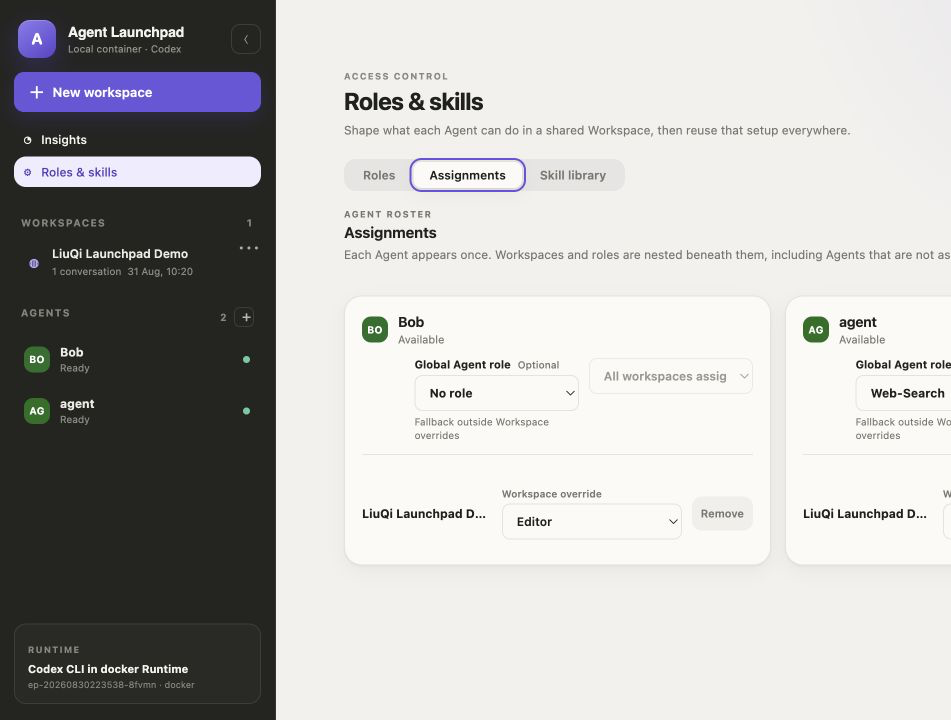
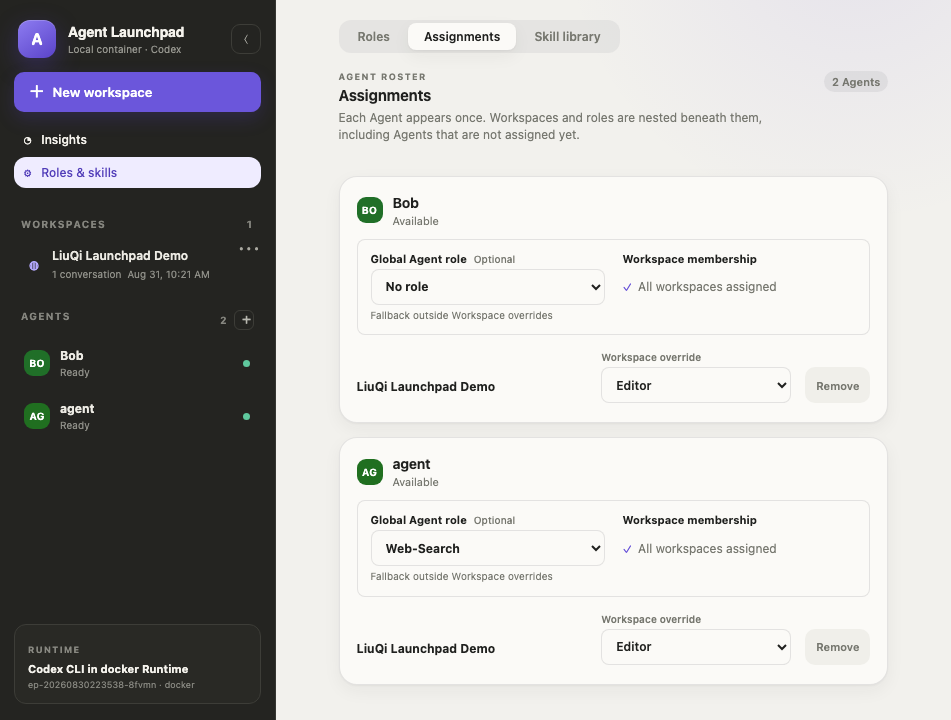
fix: fixed skills import

diff --git a/tests/server/tools/web-fetch-adapter.test.ts b/tests/server/tools/web-fetch-adapter.test.ts
@@ -1,8 +1,17 @@
+import { EventEmitter } from "node:events";
+import type { LookupFunction } from "node:net";
+import { PassThrough } from "node:stream";
 import { describe, expect, it, vi } from "vitest";
 import {
   WebFetchAdapter,
   type LookupAddress,
 } from "../../../apps/server/src/tools/web-fetch-adapter.js";
+
+const httpRequest = vi.hoisted(() => vi.fn());
+vi.mock("node:http", async (importOriginal) => ({
+  ...(await importOriginal<typeof import("node:http")>()),
+  request: httpRequest,
+}));
 
 const publicAddress: LookupAddress = { address: "93.184.216.34", family: 4 };
 
@@ -49,4 +58,49 @@ describe("WebFetchAdapter", () => {
     expect(fetchImpl).not.toHaveBeenCalled();
   });
 
+  /**
+   * The default transport pins Node's DNS lookup to the address the SSRF
+   * guard already approved. Node asks for every address at once whenever it
+   * uses the multi-address connect path (autoSelectFamily, on by default
+   * since Node 20), and answering that with the legacy positional form fails
+   * the connect with ERR_INVALID_IP_ADDRESS. Every other test in this file
+   * injects `fetchImpl`, so this is the only coverage of the real transport.
+   */
+  it("answers Node's pinned DNS lookup in the shape the request asked for", async () => {
+    let lookup: LookupFunction | undefined;
+    httpRequest.mockImplementation((options: { lookup?: LookupFunction }, onResponse: (response: unknown) => void) => {
+      lookup = options.lookup;
+      const request = new EventEmitter() as EventEmitter & { end: () => void; destroy: () => void };
+      request.destroy = () => undefined;
+      request.end = () => {
+        const response = new PassThrough() as PassThrough & {
+          statusCode: number;
+          statusMessage: string;
+          rawHeaders: string[];
+        };
+        response.statusCode = 200;
+        response.statusMessage = "OK";
+        response.rawHeaders = ["content-type", "text/markdown"];
+        onResponse(response);
+        response.end("# Imported skill");
+      };
+      return request;
+    });
+    const adapter = new WebFetchAdapter({ lookupImpl: async () => [publicAddress] });
+
+    await expect(adapter.fetch("http://example.com/SKILL.md")).resolves.toMatchObject({
+      status: 200,
+      contentType: "text/markdown",
+      content: "# Imported skill",
+    });
+
+    expect(lookup).toBeTypeOf("function");
+    const all = vi.fn();
+    lookup!("example.com", { all: true }, all);
+    expect(all).toHaveBeenCalledWith(null, [publicAddress]);
+
+    const positional = vi.fn();
+    lookup!("example.com", {}, positional);
+    expect(positional).toHaveBeenCalledWith(null, publicAddress.address, publicAddress.family);
+  });
 });

diff --git a/apps/server/src/tools/web-fetch-adapter.ts b/apps/server/src/tools/web-fetch-adapter.ts
@@ -363,8 +363,18 @@ function fetchWithPinnedAddress(
       path: url.pathname + url.search,
       method: String(init.method ?? "GET"),
       headers: headersForNodeRequest(init),
-      lookup: (_lookupHostname, _lookupOptions, callback) =>
-        callback(null, pinnedAddress.address, pinnedAddress.family),
+      // Node passes `all: true` whenever it uses the multi-address connect
+      // path (autoSelectFamily, on by default since Node 20) and then expects
+      // an address array. The positional form is only valid without it, and
+      // answering in the wrong shape fails the connect with
+      // ERR_INVALID_IP_ADDRESS rather than reaching the host.
+      lookup: (_lookupHostname, lookupOptions, callback) => {
+        if (lookupOptions.all === true) {
+          callback(null, [{ address: pinnedAddress.address, family: pinnedAddress.family }]);
+          return;
+        }
+        callback(null, pinnedAddress.address, pinnedAddress.family);
+      },
     };
     const onResponse = (response: import("node:http").IncomingMessage) => {
       const status = response.statusCode;

diff --git a/docs/ASSIGNMENTS_UI_REDESIGN_IMPLEMENTATION_PLAN.md b/docs/ASSIGNMENTS_UI_REDESIGN_IMPLEMENTATION_PLAN.md
@@ -1,0 +1,252 @@
+# Assignments UI Redesign Implementation Plan
+
+## Objective
+
+Improve **Roles & skills > Assignments** so Agent-to-Workspace access is easy
+to scan, does not clip at the current application viewport, and remains
+consistent with the existing warm-paper and purple visual system.
+
+This is a focused presentation change. It must not alter assignment behavior,
+API contracts, authorization semantics, or unrelated screens.
+
+## Confirmed Design Decisions
+
+1. Use a single-column Agent roster at every current viewport size.
+2. Keep Workspace assignments visible beneath each Agent.
+3. Emphasize the common task: review or change the Agent's global fallback and
+   Workspace-specific overrides.
+4. Render the add-Workspace select only when an unassigned Workspace exists.
+   Otherwise show quiet `All workspaces assigned` status text.
+5. Preserve the current neutral paper surfaces, restrained purple accent,
+   typography, radii, borders, and focus language.
+
+## Current Problem
+
+The issue is structural rather than a screenshot artifact.
+
+- `.assignment-list` uses a two-column grid and collapses only at a viewport
+  breakpoint of `940px`.
+- The app sidebar and page padding make the content panel substantially
+  narrower than the viewport, so the `951x720` screenshot still renders two
+  cramped cards.
+- Each card contains two percentage-width controls and a three-column
+  Workspace row, causing the second card to clip and Workspace names to
+  truncate aggressively.
+- The disabled add-Workspace select creates visual weight without offering an
+  action.
+- Mobile stacking begins at `580px`, which does not address a narrow content
+  column inside a larger viewport.
+
+Baseline evidence: `docs/images/authorization.png`.
+
+## Files in Scope
+
+- `apps/web/src/components/access/RolesAndSkillsView.tsx`
+- `apps/web/src/styles.css`
+- `tests/web/components/access/RolesAndSkillsView.test.tsx`, only if an
+  appropriate test file already exists or a small focused behavior test is
+  needed
+- `docs/images/authorization.png`, recaptured after verification
+
+Do not modify backend services, API request shapes, role semantics, project
+membership behavior, other tabs, or unrelated styles.
+
+## Implementation Plan
+
+### 1. Restructure the Agent card controls
+
+In `RolesAndSkillsView.tsx`, retain the existing `assignmentRows` data model
+and async handlers. Change only the Assignments markup.
+
+For every Agent card, keep this hierarchy:
+
+1. Agent avatar, name, and availability status.
+2. A compact policy-control band containing:
+   - Global Agent role select and its fallback explanation.
+   - Add-to-Workspace select only when `addableWorkspaces.length > 0`.
+   - Quiet `All workspaces assigned` status when no Workspace can be added.
+3. A visible Workspace assignment list containing:
+   - Full Workspace name.
+   - `Workspace override` role select.
+   - Secondary `Remove` action.
+
+Preserve:
+
+- `changeGlobalRole`, `attachAgent`, `changeAssignment`, and `detachAgent`.
+- Existing native selects and their `aria-label` values.
+- Existing busy and empty states.
+- Duplicate Workspace discriminators.
+- Existing Agent and Workspace identifiers as React keys.
+
+Do not introduce accordions. Assignments should remain directly visible for
+fast review and screenshot evidence.
+
+### 2. Replace the disabled add control
+
+Current behavior always renders a select and disables it when every Workspace
+is assigned.
+
+Change this branch to:
+
+- Render the select when `addableWorkspaces.length > 0`.
+- Render a non-interactive status block when the count is zero.
+- Use concise visible copy: `All workspaces assigned`.
+- Keep the context clear with a small label such as `Workspace membership`.
+
+The status block should not look disabled or resemble an input. It should use
+muted text and, optionally, a subtle check glyph or neutral badge.
+
+### 3. Convert the roster to one column
+
+In `styles.css`:
+
+- Set `.assignment-list` to a single-column grid at all current widths.
+- Remove `.assignment-list` from the `max-width: 940px` grid-collapse rule
+  because it no longer has a multi-column desktop state.
+- Keep a comfortable vertical gap between Agent cards.
+
+Do not add another viewport-width workaround. The single-column roster is the
+confirmed information model.
+
+### 4. Align identity and policy controls
+
+Refine the assignment-specific rules near the `Roles & skills: assignment
+cards` section.
+
+Recommended desktop layout:
+
+- Agent identity remains in a compact header row.
+- `.assignment-card-controls` becomes a full-width grid beneath the identity.
+- Use two equal, shrinkable columns when both the global role and add control
+  are present.
+- Use one full-width or bounded column when only the global role is present.
+- Remove percentage widths from `.assignment-global-role-field` and
+  `.assignment-add-field`.
+- Apply `min-width: 0` to grid children so selects cannot force overflow.
+
+Use a subtle control band or rule to separate Agent identity from policy
+controls. Reuse `--paper`, `--hairline`, `--line`, `--muted`, `--purple`,
+`--purple-soft`, existing radii, and existing shadows.
+
+Avoid new fonts, gradients, large shadows, or ornamental animation.
+
+### 5. Make Workspace assignment rows readable
+
+Keep each Workspace row compact on desktop:
+
+```text
+Workspace name              Workspace override [Role]   Remove
+```
+
+Requirements:
+
+- Give the Workspace name flexible space.
+- Permit wrapping before severe truncation, or provide a `title` containing
+  the complete name if ellipsis remains.
+- Keep the override select wide enough for current role names.
+- Keep Remove visually secondary and aligned with its row.
+- Preserve separators between multiple Workspace assignments.
+
+At narrow widths, stack the override control below the Workspace name and keep
+Remove aligned to the top-right. Reuse or refine the existing `580px` mobile
+rule.
+
+### 6. Remove obsolete assignment CSS where safe
+
+Review the older rules around:
+
+- `.assignment-rows`
+- `.assignment-row`
+- `.assignment-agent`
+
+If repository search confirms they have no remaining consumers, remove them
+as part of this focused cleanup. Do not remove shared `.access-*` rules.
+
+## Accessibility Requirements
+
+- Preserve native `<select>` elements and all current accessible labels.
+- Preserve the Remove button label naming both Agent and Workspace.
+- Ensure the new all-assigned status is plain text, not a disabled interactive
+  control.
+- Retain visible keyboard focus styles for every interactive element.
+- Keep full Workspace names available to assistive technology.
+- Maintain practical pointer targets for primary controls.
+- Do not make hover the only indicator of interactivity.
+
+## Responsive Acceptance Criteria
+
+At the current in-app browser viewport, approximately `951x720`:
+
+- No horizontal page overflow.
+- No partially visible second Agent card.
+- Both Agent cards fit the content column width.
+- Workspace names, override roles, and Remove actions remain understandable.
+- Disabled add-Workspace dropdowns are gone.
+- The screenshot reads as one coherent roster rather than competing cards.
+
+At wider desktop widths:
+
+- Agent cards remain single-column.
+- Controls use available width without leaving a large right-heavy empty area.
+- Workspace rows remain compact and aligned.
+
+At mobile widths around `580px` and below:
+
+- Policy controls stack vertically.
+- Selects use the full available width.
+- Workspace override controls stack without covering Remove.
+- No text or focus ring is clipped.
+
+## Verification
+
+Keep verification proportional to this UI-only change.
+
+1. Run the Web typecheck:
+
+   ```bash
+   npm run typecheck -w @launchpad/web
+   ```
+
+2. Run a focused Web test only if one is added or updated:
+
+   ```bash
+   npx vitest run --config vitest.web.config.ts \
+     tests/web/components/access/RolesAndSkillsView.test.tsx
+   ```
+
+3. Start or reuse the local POC and inspect **Roles & skills > Assignments**.
+4. Verify the default in-app browser viewport and one narrow responsive state.
+5. Confirm the global role, add Workspace, Workspace override, and Remove
+   controls still call their existing handlers.
+6. Check the browser console for new errors.
+
+Do not run the full server suite for this focused styling change unless the
+implementation alters shared behavior unexpectedly.
+
+## Screenshot Deliverable
+
+After the implementation passes visual review, replace:
+
+`docs/images/authorization.png`
+
+The capture should show:
+
+- The Assignments tab selected.
+- At least two complete Agent roster cards.
+- Global fallback roles.
+- Project-specific Workspace overrides.
+- No clipped card, horizontal overflow, or disabled add-Workspace dropdown.
+
+Capture from the running application. Do not mock or fabricate assignment
+state solely for the image.
+
+## Definition of Done
+
+- The Assignments page uses a single-column Agent roster.
+- Hierarchy is Agent identity, global fallback, then Workspace overrides.
+- Add-to-Workspace appears only when actionable.
+- The design matches the existing application visual language.
+- Keyboard labels, focus states, and existing behaviors are preserved.
+- The default screenshot viewport is clean and unclipped.
+- `docs/images/authorization.png` is recaptured from the verified UI.
+- No backend, authorization, or unrelated application behavior changes.
